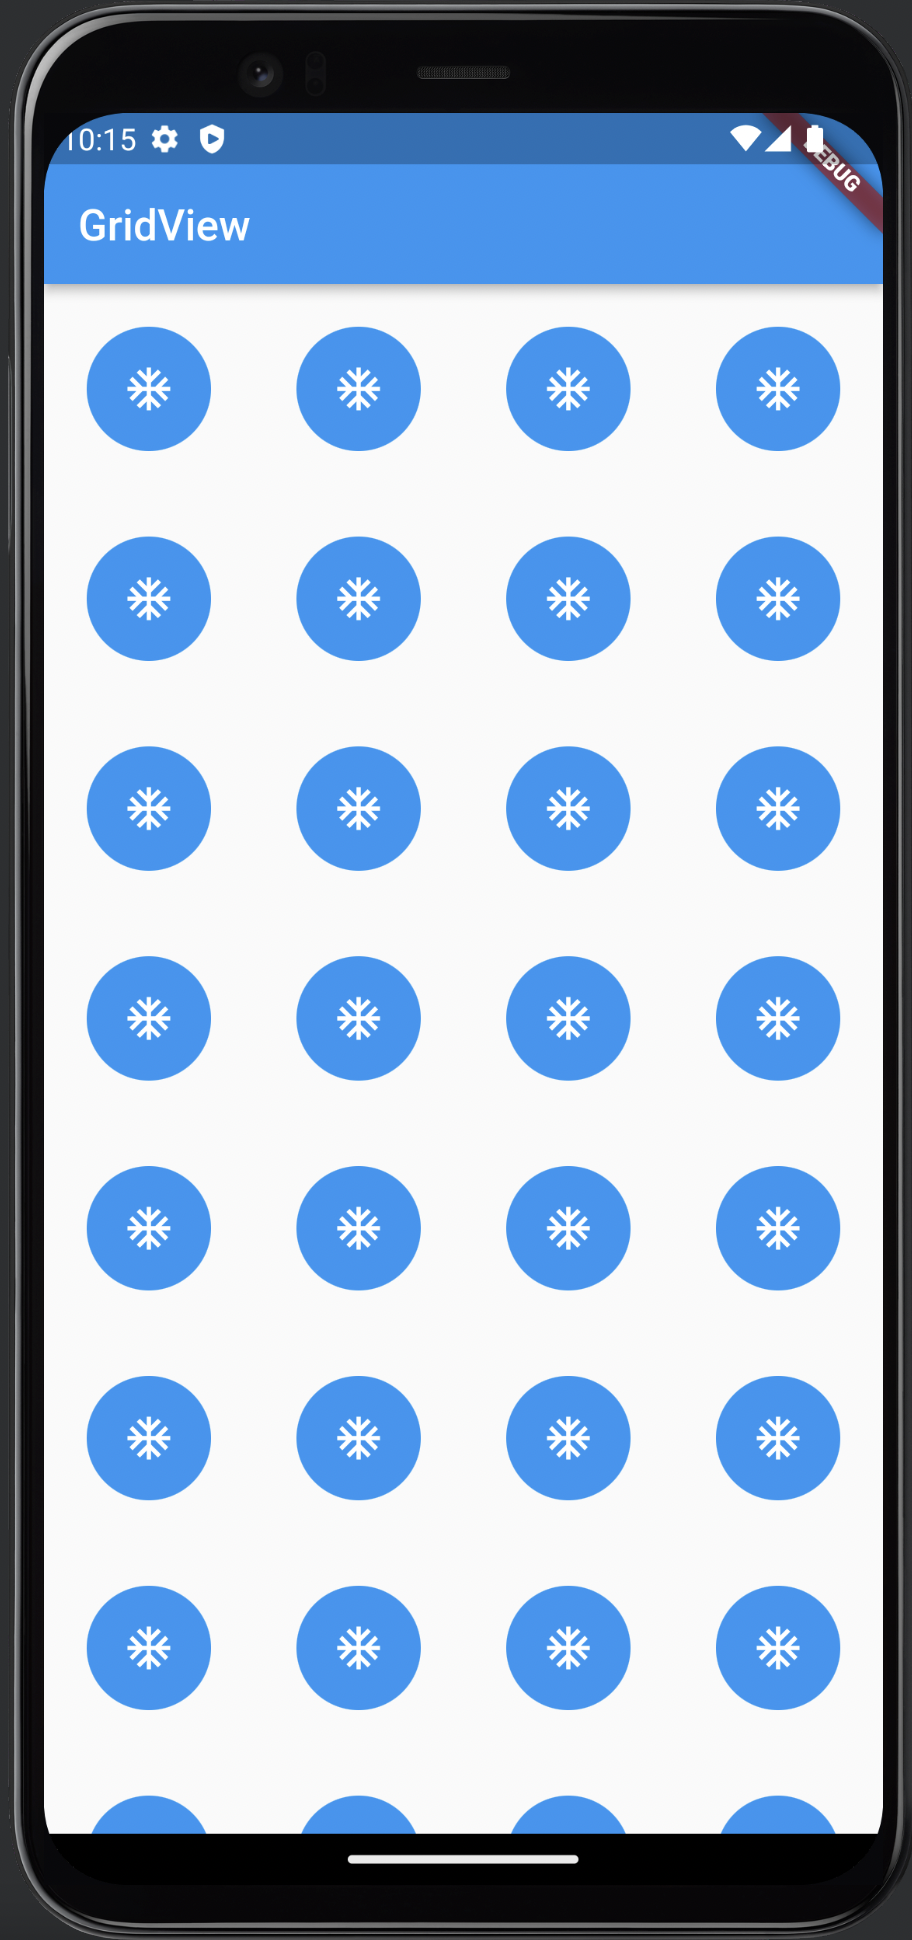
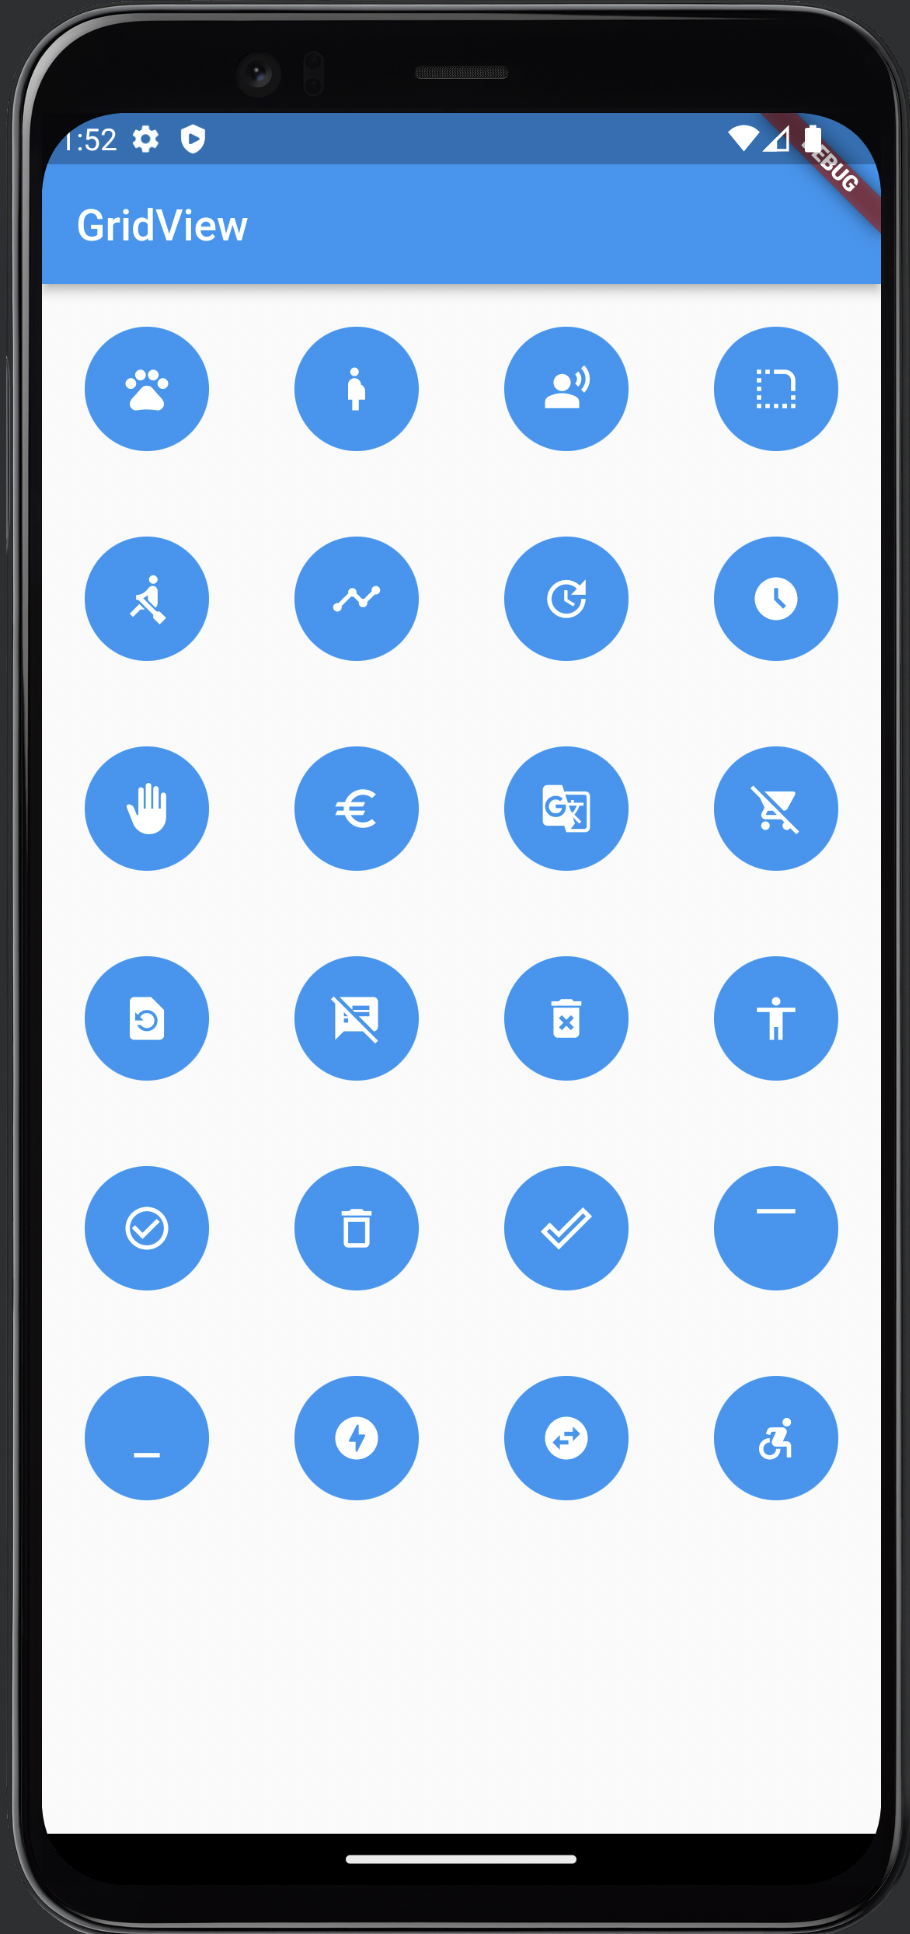
modified praktikum

diff --git a/15_Flutter Layout/praktikum/practice_15/lib/grid_view_screen.dart b/15_Flutter Layout/praktikum/practice_15/lib/grid_view_screen.dart
@@ -1,7 +1,33 @@
 import 'package:flutter/material.dart';
 
 class GridViewScreen extends StatelessWidget {
-  const GridViewScreen({Key? key}) : super(key: key);
+  GridViewScreen({Key? key}) : super(key: key);
+  List icons = [
+    Icons.pets,
+    Icons.pregnant_woman,
+    Icons.spatial_audio_off,
+    Icons.rounded_corner,
+    Icons.rowing,
+    Icons.timeline,
+    Icons.update,
+    Icons.access_time_filled,
+    Icons.back_hand,
+    Icons.euro,
+    Icons.g_translate,
+    Icons.remove_shopping_cart,
+    Icons.restore_page,
+    Icons.speaker_notes_off,
+    Icons.delete_forever,
+    Icons.accessibility,
+    Icons.check_circle_outline,
+    Icons.delete_outline,
+    Icons.done_outline,
+    Icons.maximize,
+    Icons.minimize,
+    Icons.offline_bolt_rounded,
+    Icons.swap_horizontal_circle,
+    Icons.accessible_forward,
+  ];
 
   @override
   Widget build(BuildContext context) {
@@ -13,7 +39,7 @@ class GridViewScreen extends StatelessWidget {
         gridDelegate: const SliverGridDelegateWithFixedCrossAxisCount(
           crossAxisCount: 4,
         ),
-        itemCount: 32,
+        itemCount: icons.length,
         itemBuilder: (BuildContext context, int index) {
           return Padding(
             padding: const EdgeInsets.all(20.0),
@@ -21,9 +47,9 @@ class GridViewScreen extends StatelessWidget {
               borderRadius: BorderRadius.circular(100.0),
               child: Container(
                 color: Colors.blue,
-                child: const Center(
+                child: Center(
                   child: Icon(
-                    Icons.ac_unit,
+                    icons[index],
                     color: Colors.white,
                   ),
                 ),

diff --git a/15_Flutter Layout/praktikum/practice_15/lib/main.dart b/15_Flutter Layout/praktikum/practice_15/lib/main.dart
@@ -16,7 +16,7 @@ class MyApp extends StatelessWidget {
       theme: ThemeData(
         primarySwatch: Colors.blue,
       ),
-      home: const ListViewScreen()
+      home: GridViewScreen()
     );
   }
 }

diff --git a/15_Flutter Layout/praktikum/explanation.md b/15_Flutter Layout/praktikum/explanation.md
@@ -29,7 +29,9 @@ Menggunakan ListView.builder dengan scrollDirection vertikal dan berjumlah sejum
 
 <img src='screenshot/grid-view.png' height=400>
 
-Menggunakan GridView.builder dengan gridDelegate SliverGridDelegateWithFixedCrossAxisCount dengan jumlah crossAxisCount (row) berjumlah 4, jumlah item 32, dan juga membuat itemBuilder yang akan membuat widget didalamnya sejumlah banyak item.
+<img src='screenshot/icons.png' height=400>
+
+Menggunakan GridView.builder dengan gridDelegate SliverGridDelegateWithFixedCrossAxisCount dengan jumlah crossAxisCount (row) berjumlah 4, jumlah item sebanyak jumlah item pada list icons, dan juga membuat itemBuilder yang akan membuat widget didalamnya sejumlah banyak item.
 &nbsp;
 
 ## Hasil:
